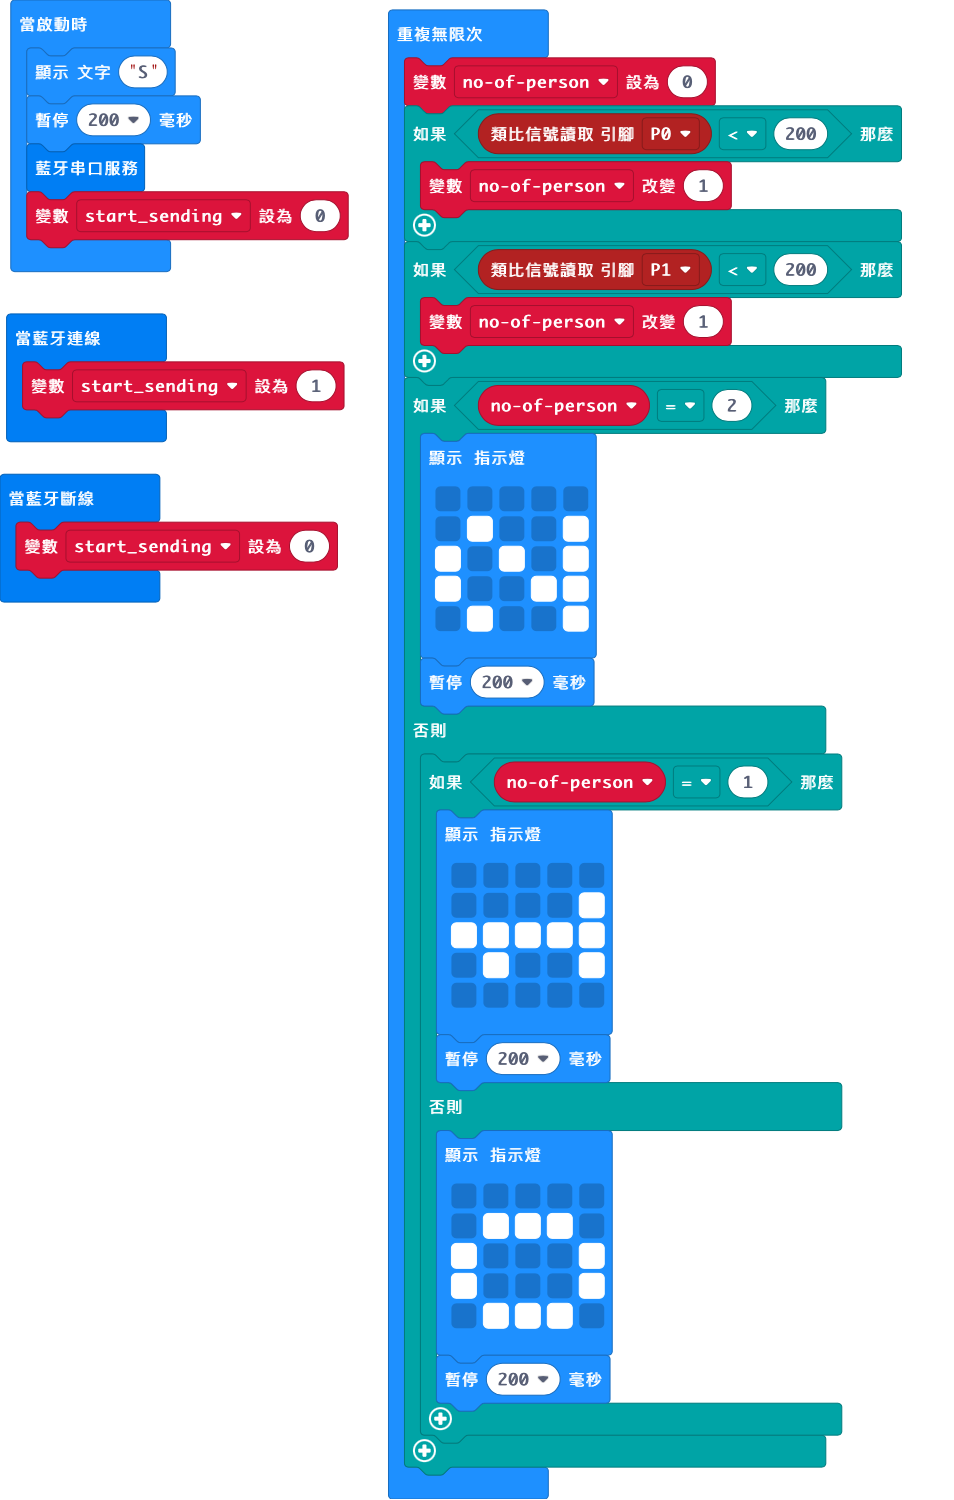
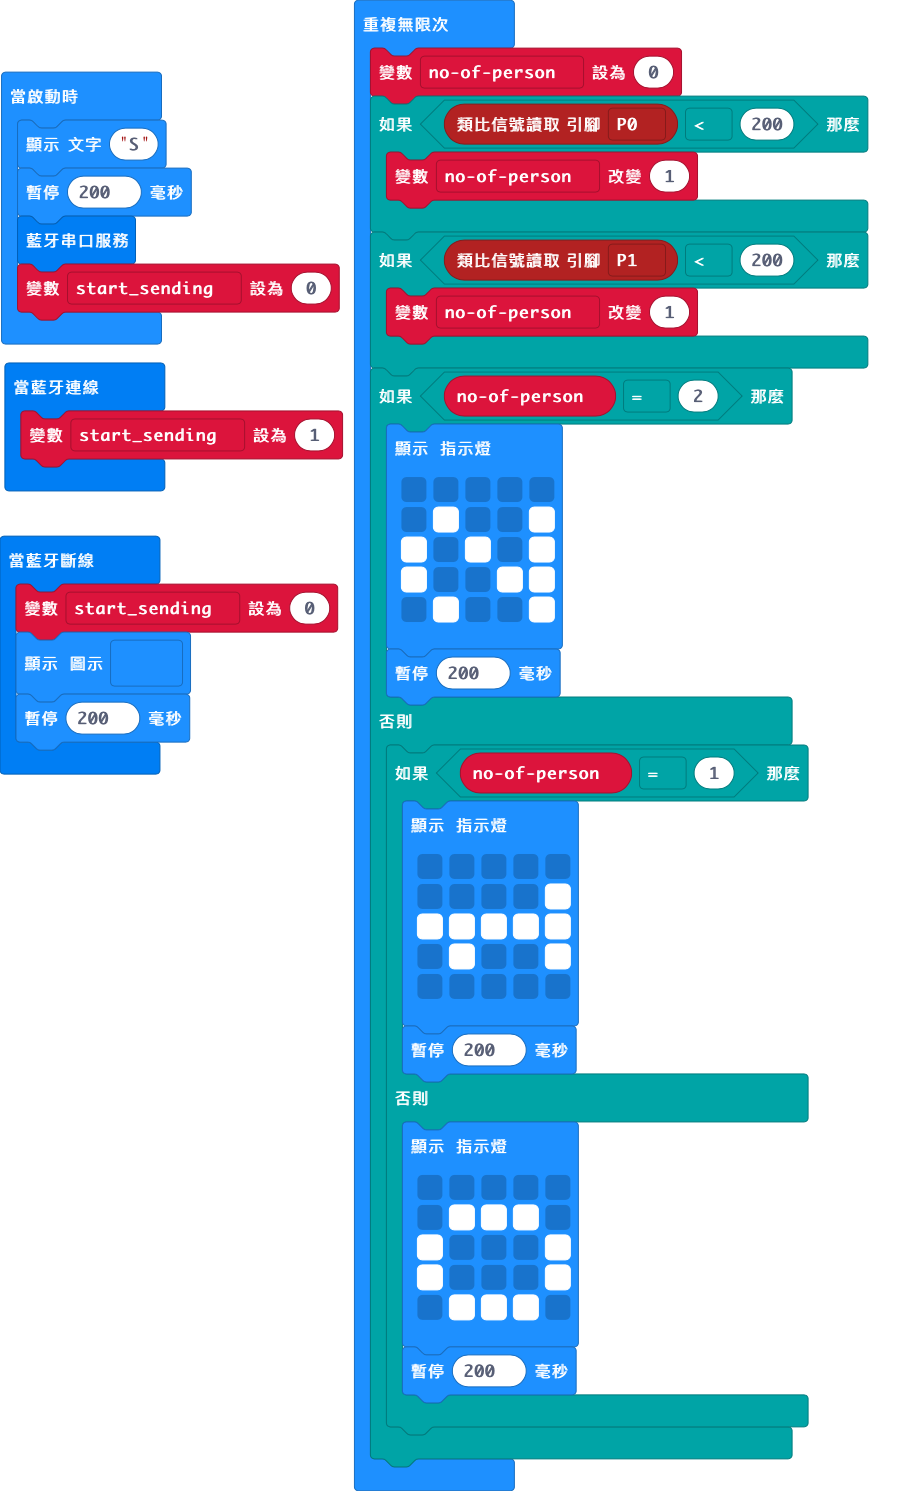
Update pxt.json, main.blocks, main.ts, main.py

Changed region(s): [[0.0, 0.0, 0.9435, 1.0], [0.8522, 0.9256, 0.8826, 0.9873], [0.8522, 0.7096, 0.8826, 0.7713]]

diff --git a/main.ts b/main.ts
@@ -3,6 +3,8 @@ bluetooth.onBluetoothConnected(function () {
 })
 bluetooth.onBluetoothDisconnected(function () {
     start_sending = 0
+    basic.showIcon(IconNames.No)
+    basic.pause(200)
 })
 let noofperson = 0
 let start_sending = 0

diff --git a/main.py b/main.py
@@ -1,0 +1,53 @@
+def on_bluetooth_connected():
+    global start_sending
+    start_sending = 1
+bluetooth.on_bluetooth_connected(on_bluetooth_connected)
+
+def on_bluetooth_disconnected():
+    global start_sending
+    start_sending = 0
+bluetooth.on_bluetooth_disconnected(on_bluetooth_disconnected)
+
+noofperson = 0
+start_sending = 0
+basic.show_string("S")
+basic.pause(200)
+bluetooth.start_uart_service()
+start_sending = 0
+
+def on_forever():
+    global noofperson
+    noofperson = 0
+    if pins.analog_read_pin(AnalogPin.P0) < 200:
+        noofperson += 1
+    if pins.analog_read_pin(AnalogPin.P1) < 200:
+        noofperson += 1
+    if noofperson == 2:
+        basic.show_leds("""
+            . . . . .
+            . # . . #
+            # . # . #
+            # . . # #
+            . # . . #
+            """)
+        basic.pause(200)
+    else:
+        if noofperson == 1:
+            basic.show_leds("""
+                . . . . .
+                . . . . #
+                # # # # #
+                . # . . #
+                . . . . .
+                """)
+            basic.pause(200)
+        else:
+            basic.show_leds("""
+                . . . . .
+                . # # # .
+                # . . . #
+                # . . . #
+                . # # # .
+                """)
+            basic.pause(200)
+basic.forever(on_forever)
